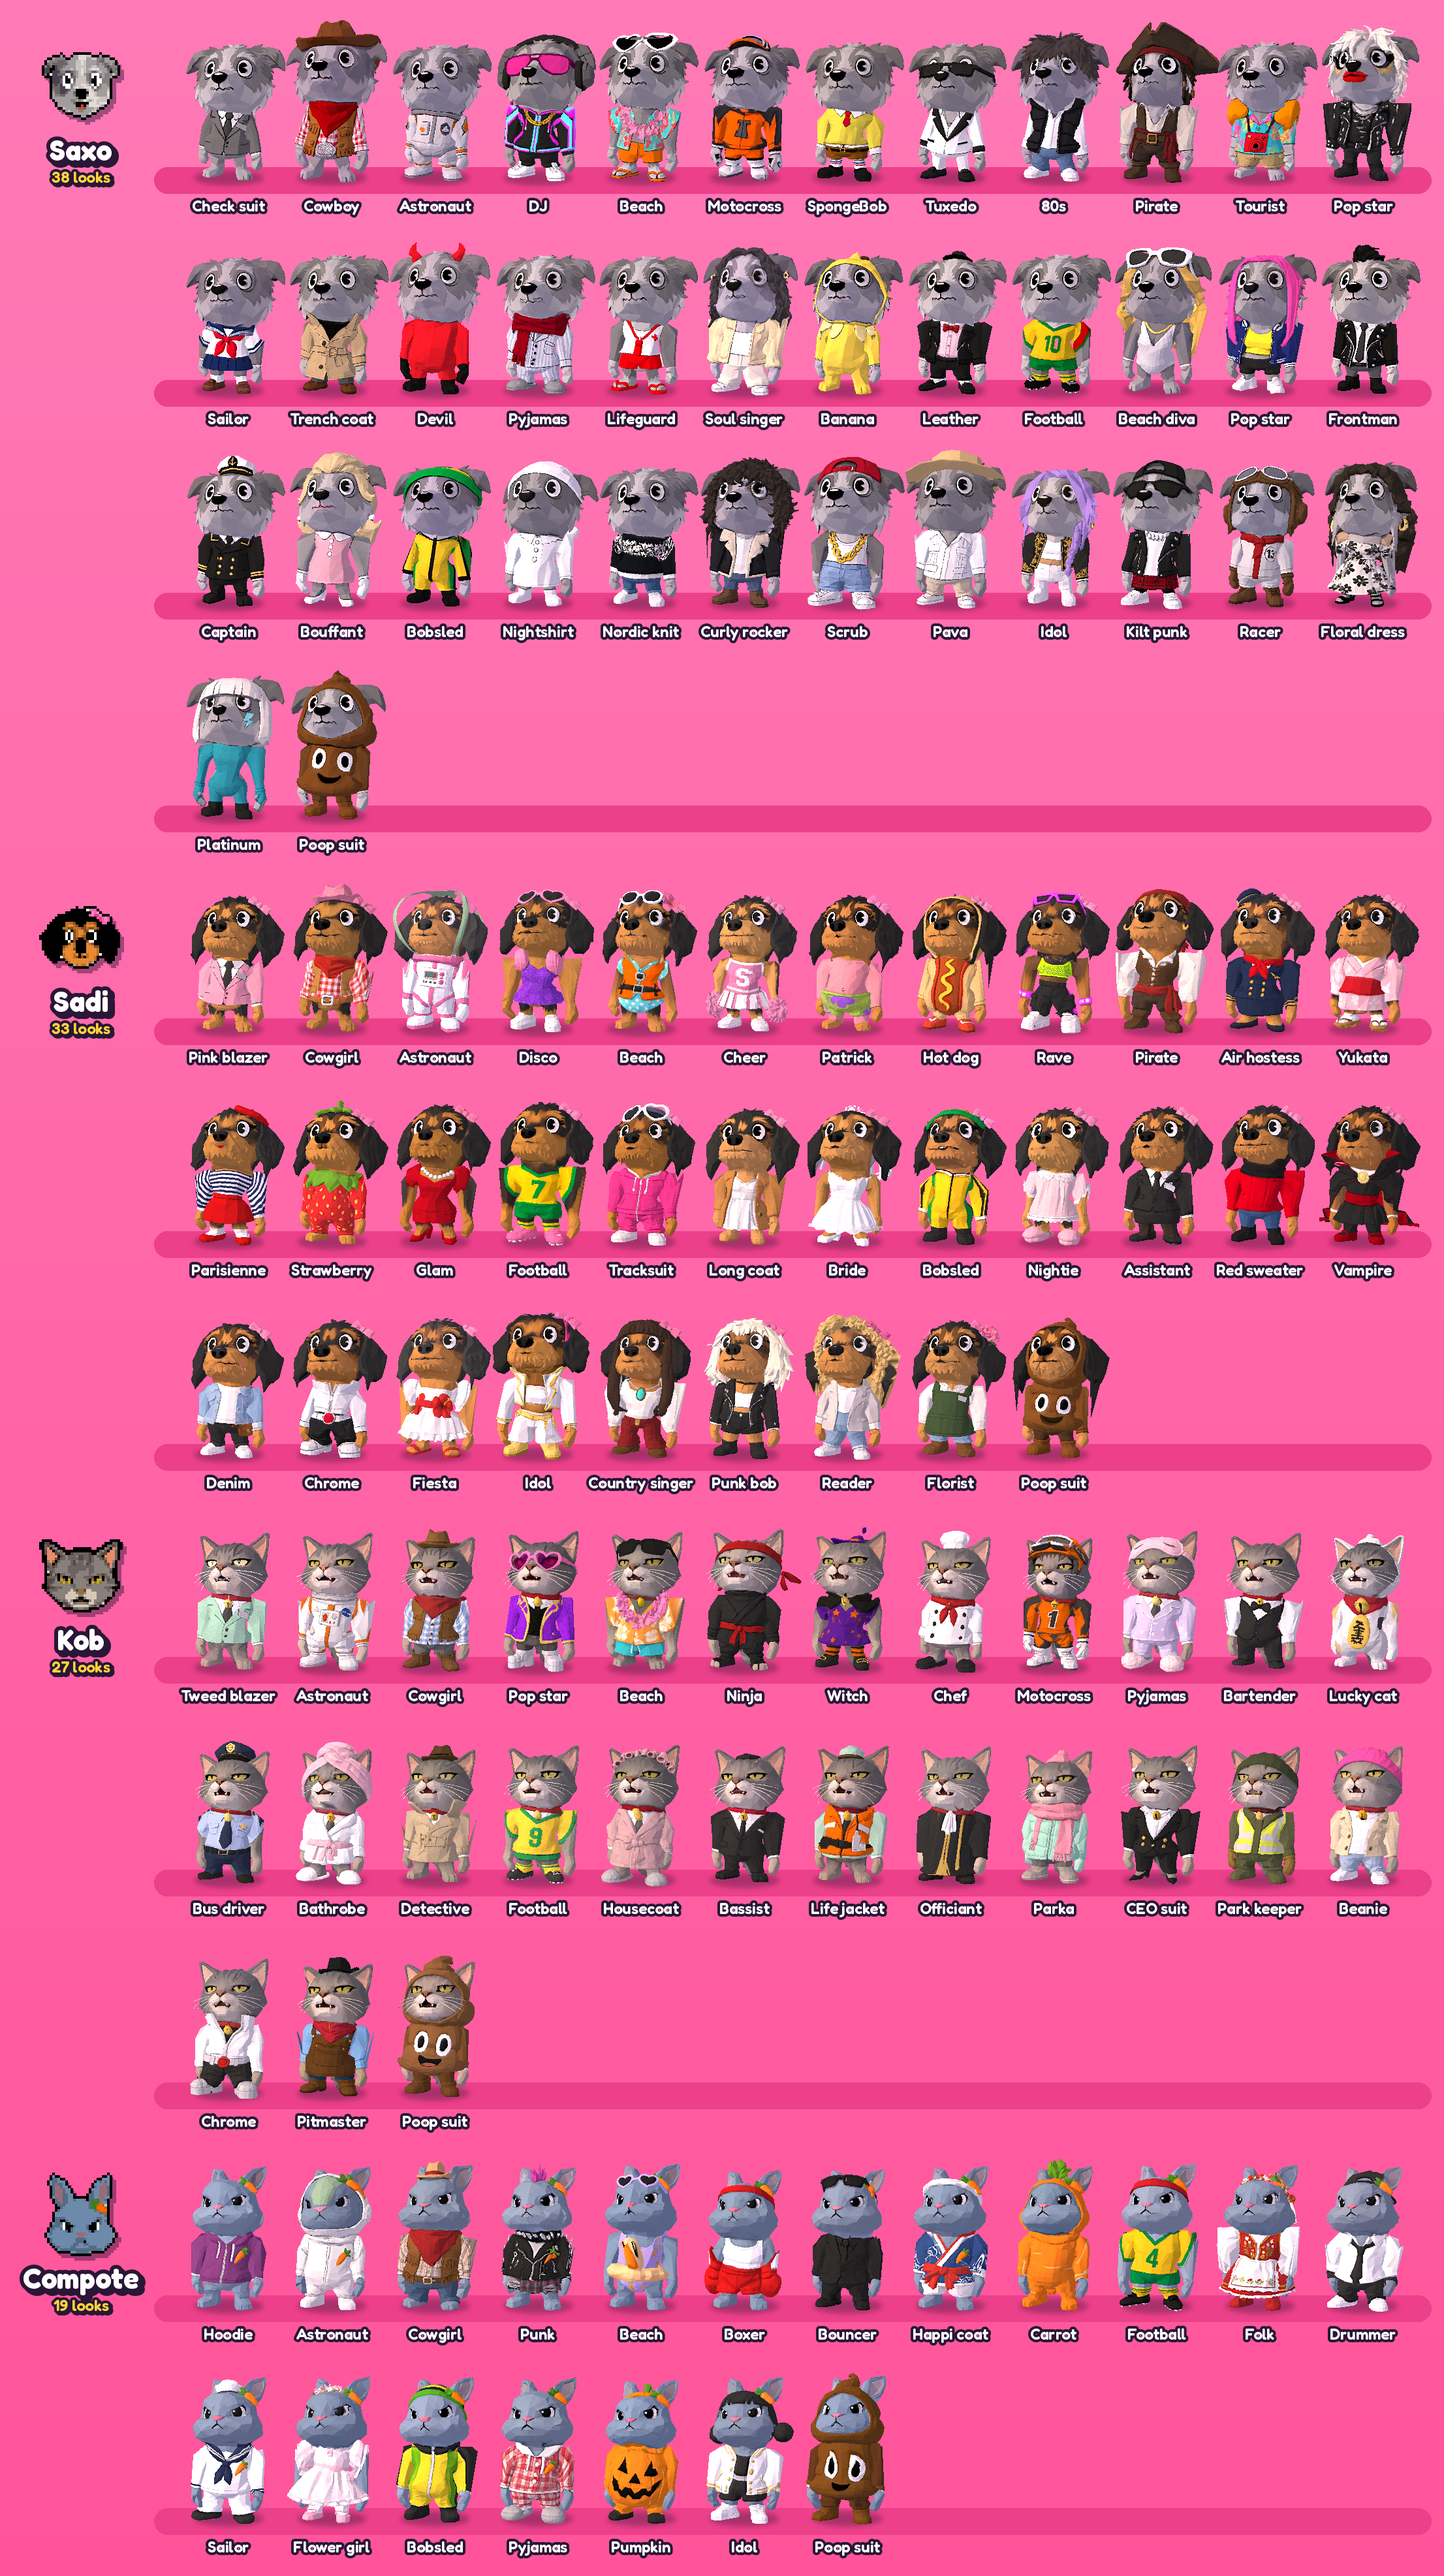
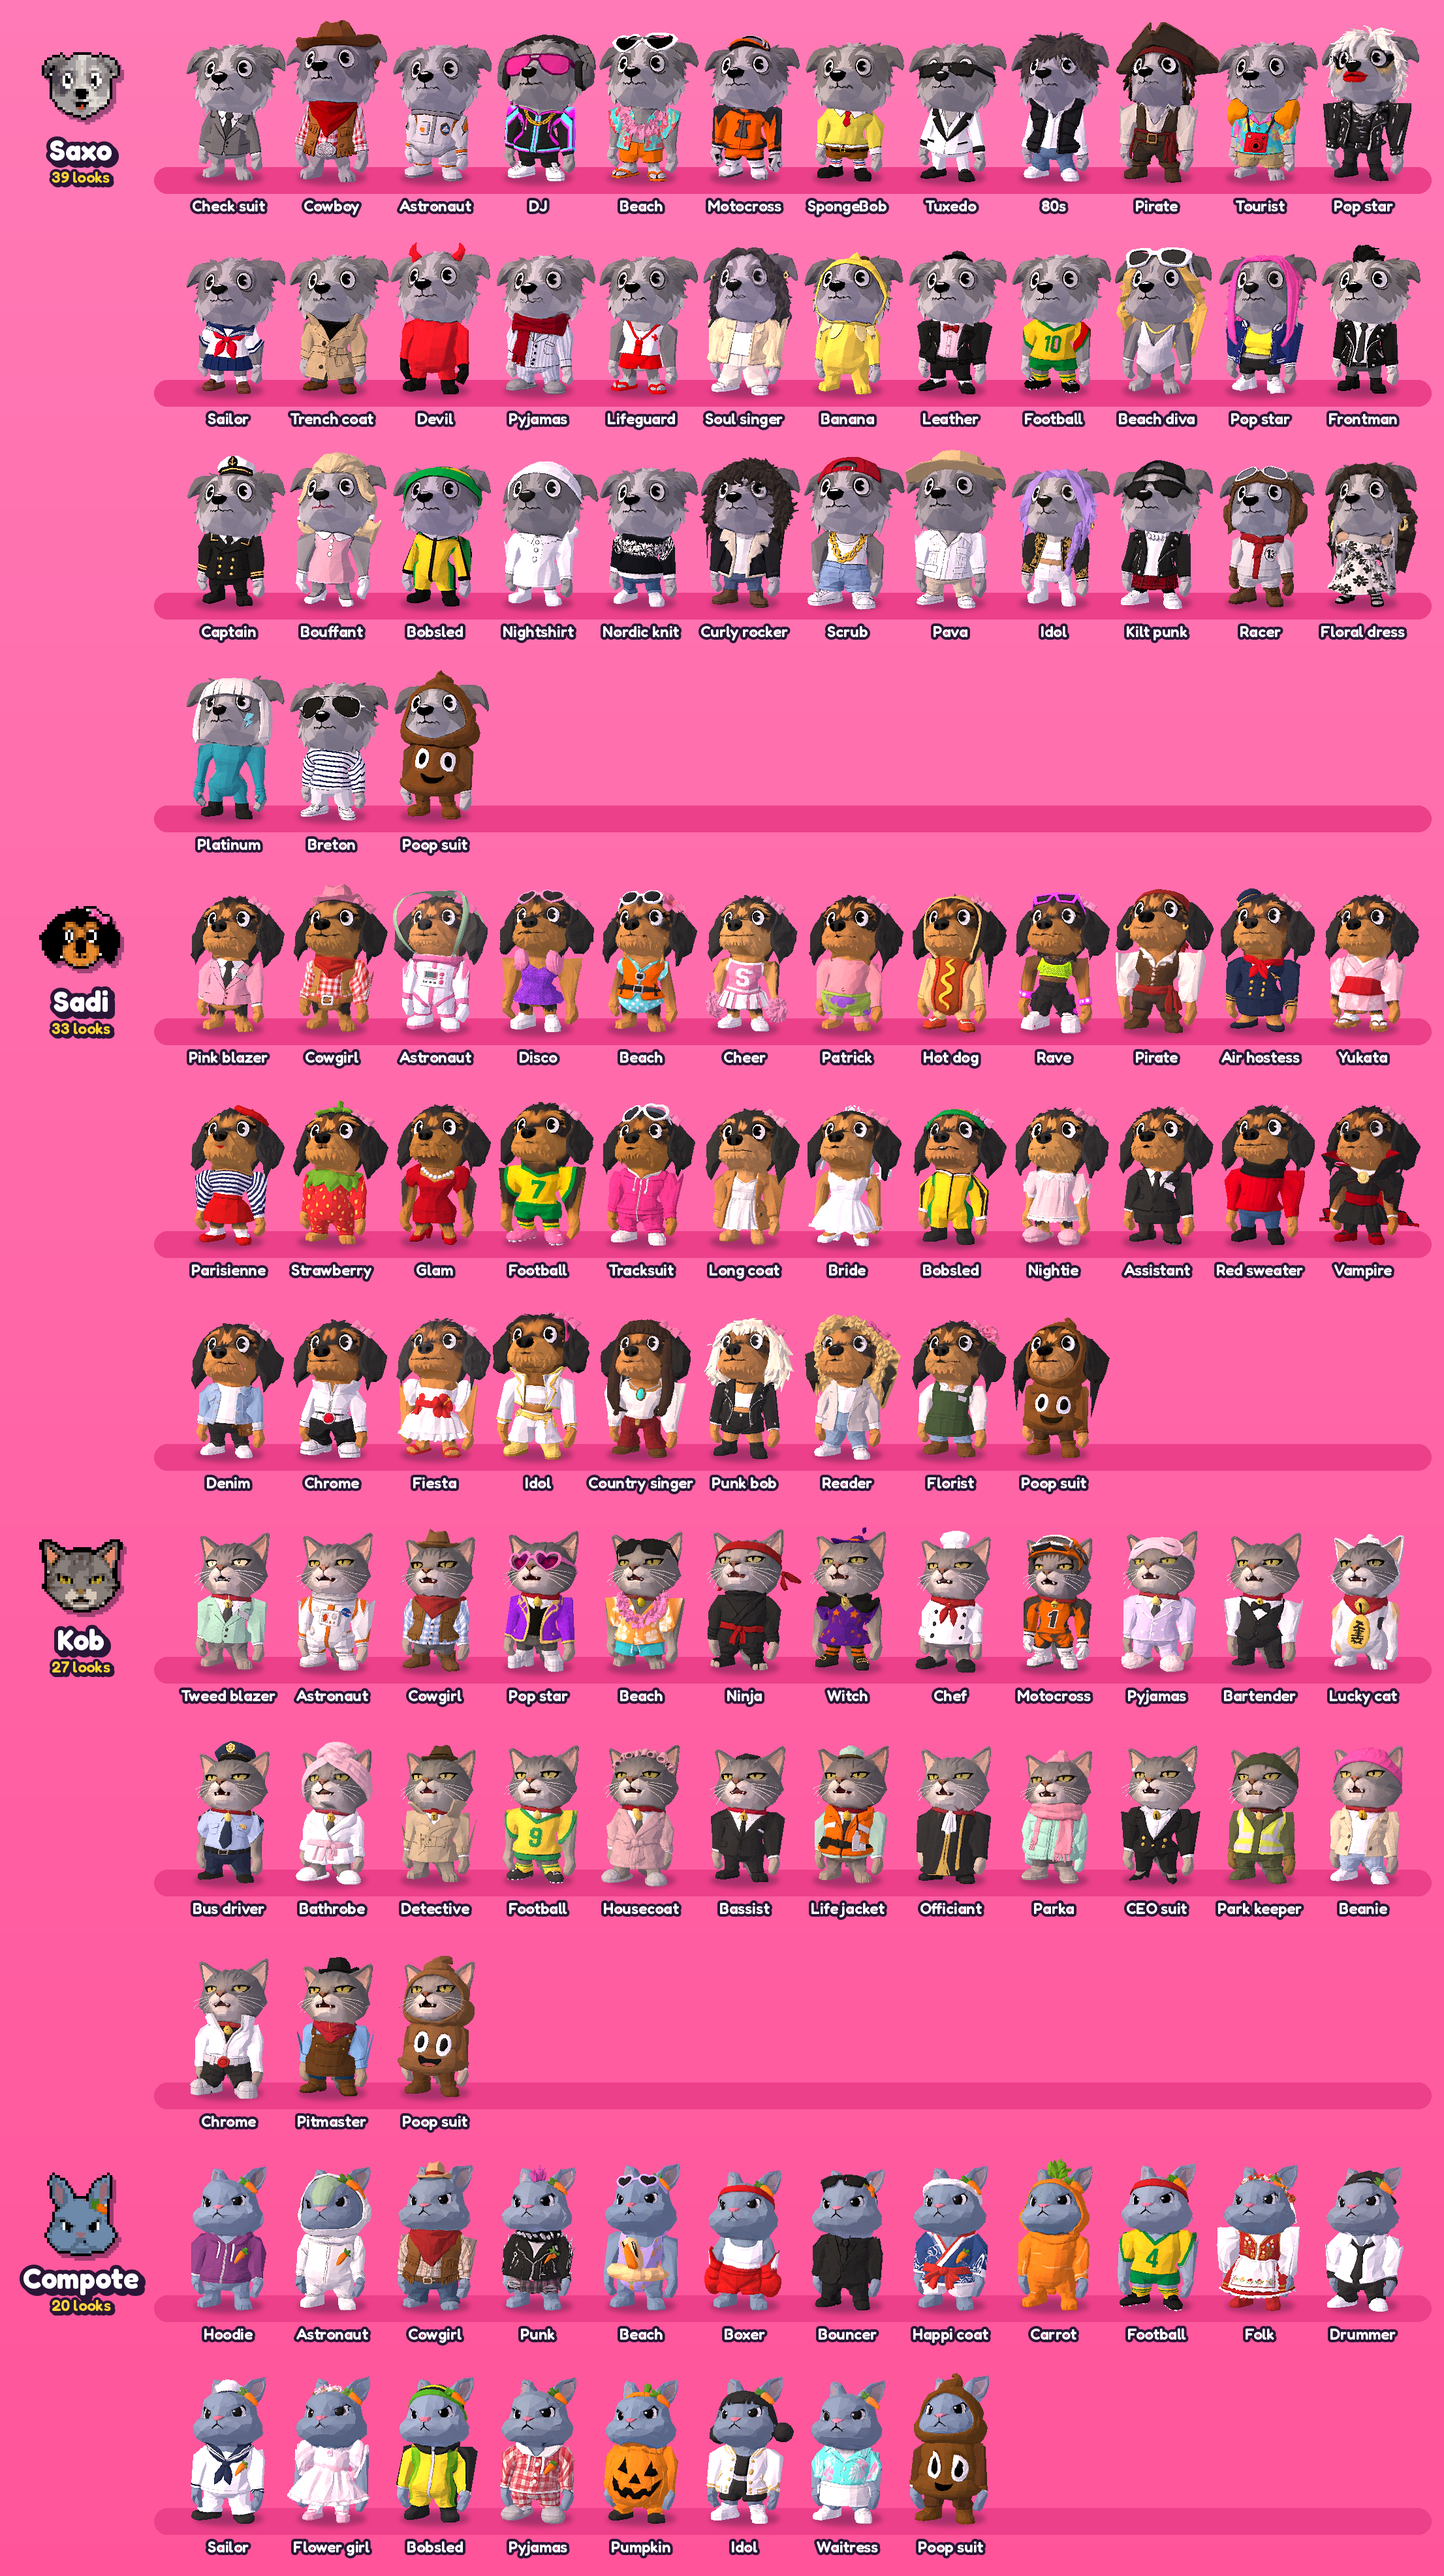
Sync with dc52076: docs(readme): add the resort map and the Breton top and waitress looks

Changed region(s): [[0.1872, 0.2494, 0.3431, 0.3429], [0.5615, 0.904, 0.6863, 0.9975], [0.0312, 0.8728, 0.0624, 0.904]]

diff --git a/README.md b/README.md
@@ -89,7 +89,7 @@
 </table>
 
 <p align="center">
-  <img src="docs/readme/wardrobe.png" width="100%" alt="The wardrobe: every look of Saxo, Sadi, Kob and Compote, from cowboy and astronaut to SpongeBob, a white tuxedo, Kob's pyjamas, the pirates, the tourist, the air hostess, a pop-star disguise, Kob the bartender, a sailor uniform, a yukata, a lucky-cat suit, a happi coat, a trench coat, a Parisienne, a bus driver, sick-day pyjamas, a devil suit, a lifeguard, a bathrobe, a soul singer, a banana, a strawberry, a carrot, a leather jacket, Kob the private eye, a sequin dress, the team's football kit, a ship's captain, a life jacket, a bride, a bobsled suit, a sleepwalker's nightshirt, Kob's CEO suit, Sadi's assistant suit, a Nordic knit, Sadi's red sweater, Kob the park keeper, Sadi the vampire, a pumpkin suit, a curly rocker, a denim jacket, Kob's pink beanie, a gold chain, the girl group's chrome stage look, a straw hat and guayabera, a white party sundress, the idol trio's stage looks, Sadi the country singer, Kob the pitmaster, a punk duo's tartan kilt and platinum bob, a vintage racing driver, an 80s perm, a floral sundress, a florist's apron and the poop suit">
+  <img src="docs/readme/wardrobe.png" width="100%" alt="The wardrobe: every look of Saxo, Sadi, Kob and Compote, from cowboy and astronaut to SpongeBob, a white tuxedo, Kob's pyjamas, the pirates, the tourist, the air hostess, a pop-star disguise, Kob the bartender, a sailor uniform, a yukata, a lucky-cat suit, a happi coat, a trench coat, a Parisienne, a bus driver, sick-day pyjamas, a devil suit, a lifeguard, a bathrobe, a soul singer, a banana, a strawberry, a carrot, a leather jacket, Kob the private eye, a sequin dress, the team's football kit, a ship's captain, a life jacket, a bride, a bobsled suit, a sleepwalker's nightshirt, Kob's CEO suit, Sadi's assistant suit, a Nordic knit, Sadi's red sweater, Kob the park keeper, Sadi the vampire, a pumpkin suit, a curly rocker, a denim jacket, Kob's pink beanie, a gold chain, the girl group's chrome stage look, a straw hat and guayabera, a white party sundress, the idol trio's stage looks, Sadi the country singer, Kob the pitmaster, a punk duo's tartan kilt and platinum bob, a vintage racing driver, an 80s perm, a floral sundress, a florist's apron, a teal catsuit, a Breton top, a pool waitress's Hawaiian shirt and the poop suit">
 </p>
 
 Each map dresses the cast for the occasion: astronaut suits on the moon, cowboy hats out west, SpongeBob and Patrick
@@ -98,7 +98,7 @@ in Bikini Bottom, a hot dog in the supermarket. The poop suit is never automatic
 ## 78 maps, and counting
 
 <p align="center">
-  <img src="docs/readme/maps.png" width="100%" alt="The maps, from the street, club and moon to Tokyo, Paris, the yacht, the techno club, the treasure cave, the black ship, the plane, the chapel club, the desert village, the blossom festival, the pier at dusk, the night bus, a house party, a hospital ward, a water park, a radio studio, a fruits-only warehouse party, a film-noir night street, a cup final under the floodlights, a tiny Earth in space, a baobab on the savanna, a Spanish beach, a grey housing estate, a desert stage, a band trailer, a pink childhood bedroom, a schooner that sinks, a white wedding chapel, a Kingston beach, an Olympic bobsled track at night, a gothic tower ledge in the rain, a talent agency at night with the CEO's red office, a city park in autumn, a graveyard on Halloween night, a band's stage on a red canyon's rim at golden hour, a girl group's white spaceship set with a giant chrome NO, a night street where a saucer has landed, a lowrider cruising down a boulevard at night, a family party in a carport, an open-air K-pop arena at night, a Texas dance hall, the road into Abilene at golden hour, a pink apartment block's party lift, its stairwell and the penthouse party, an 80s diner whose back wall is a giant comic page, a London street with a bookshop and a flower stall, a white villa's pool deck at night with a poker table, each with the cast in costume">
+  <img src="docs/readme/maps.png" width="100%" alt="The maps, from the street, club and moon to Tokyo, Paris, the yacht, the techno club, the treasure cave, the black ship, the plane, the chapel club, the desert village, the blossom festival, the pier at dusk, the night bus, a house party, a hospital ward, a water park, a radio studio, a fruits-only warehouse party, a film-noir night street, a cup final under the floodlights, a tiny Earth in space, a baobab on the savanna, a Spanish beach, a grey housing estate, a desert stage, a band trailer, a pink childhood bedroom, a schooner that sinks, a white wedding chapel, a Kingston beach, an Olympic bobsled track at night, a gothic tower ledge in the rain, a talent agency at night with the CEO's red office, a city park in autumn, a graveyard on Halloween night, a band's stage on a red canyon's rim at golden hour, a girl group's white spaceship set with a giant chrome NO, a night street where a saucer has landed, a lowrider cruising down a boulevard at night, a family party in a carport, an open-air K-pop arena at night, a Texas dance hall, the road into Abilene at golden hour, a pink apartment block's party lift, its stairwell and the penthouse party, an 80s diner whose back wall is a giant comic page, a London street with a bookshop and a flower stall, a white villa's pool deck at night with a poker table, an all-inclusive resort's pool at midday, each with the cast in costume">
 </p>
 
 Every map is built from primitives in [`src/maps*.js`](src/) and animated as a pure function of time, mostly on the
